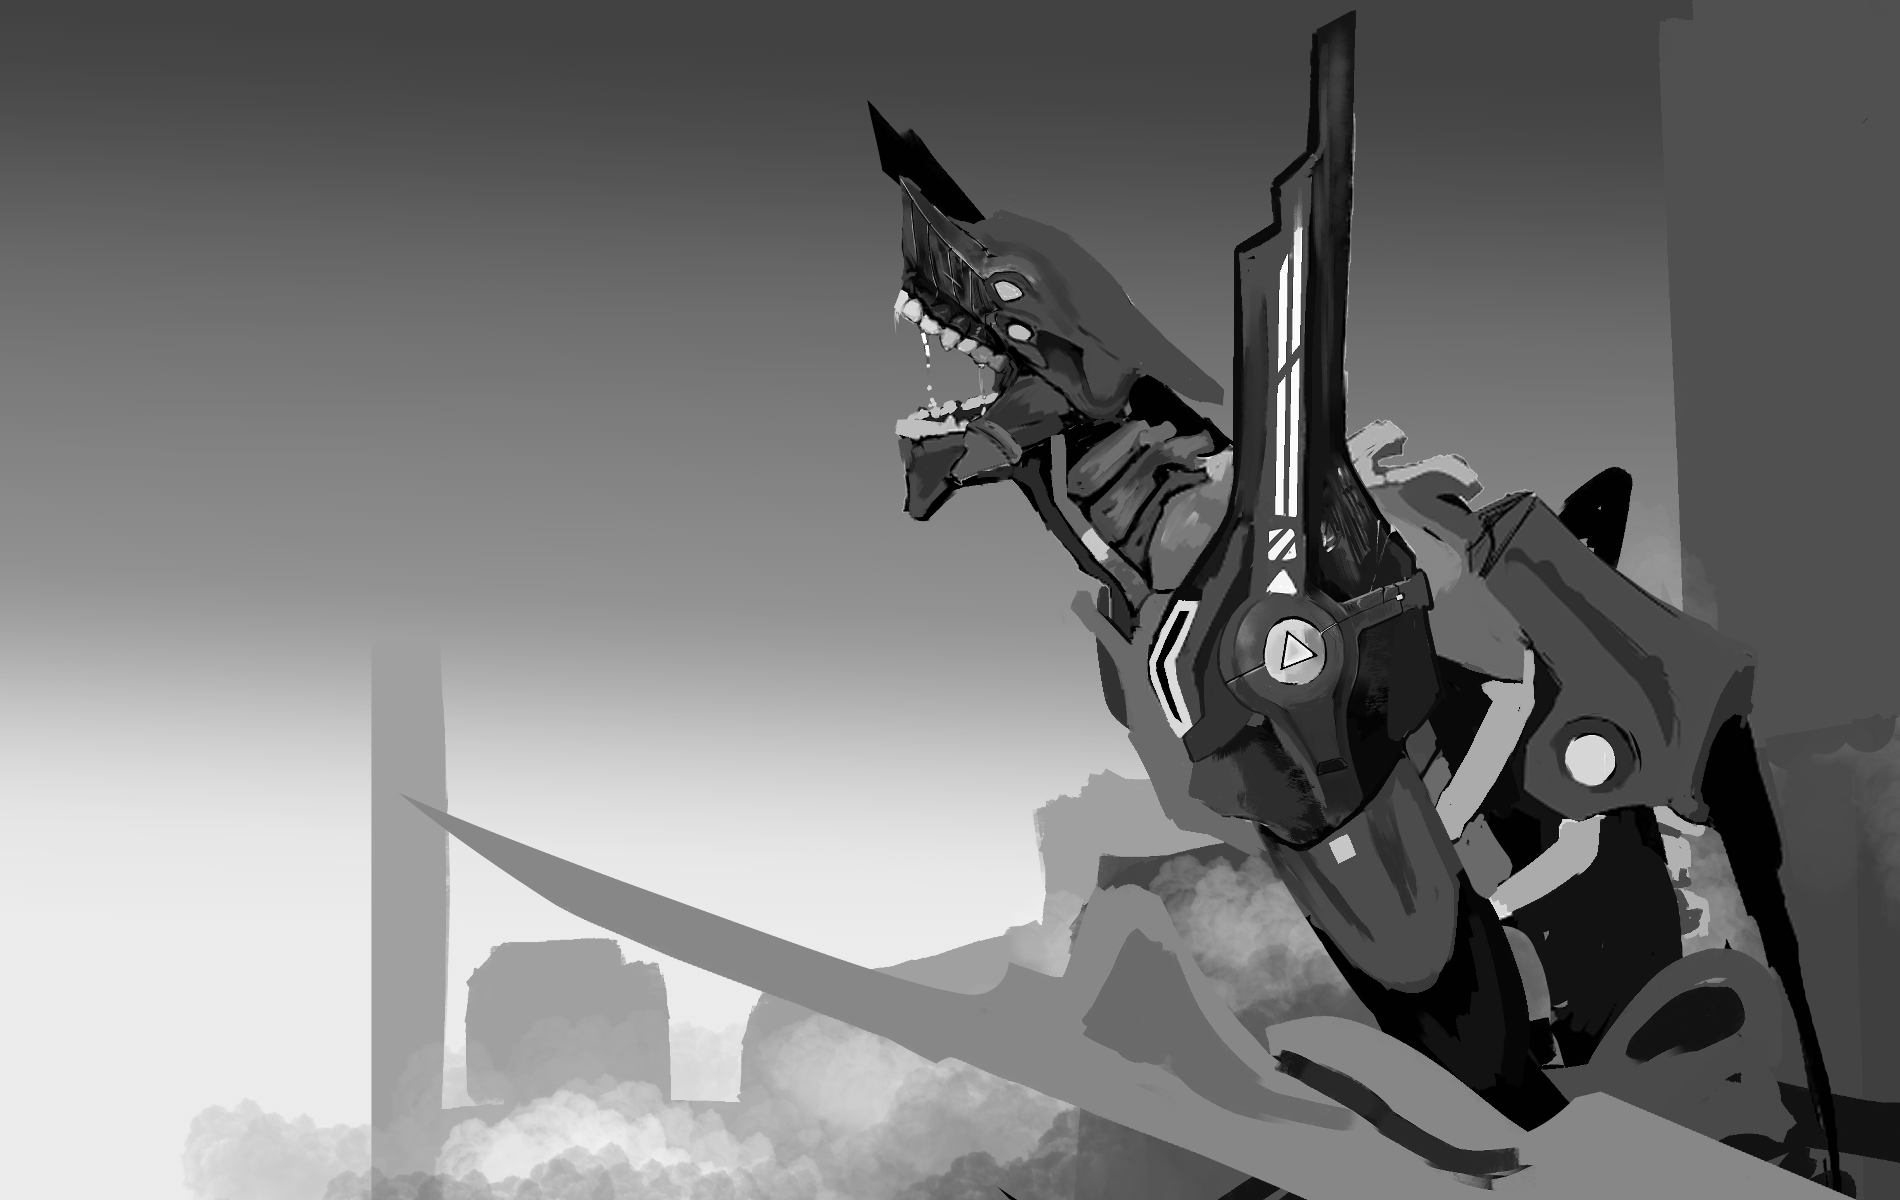
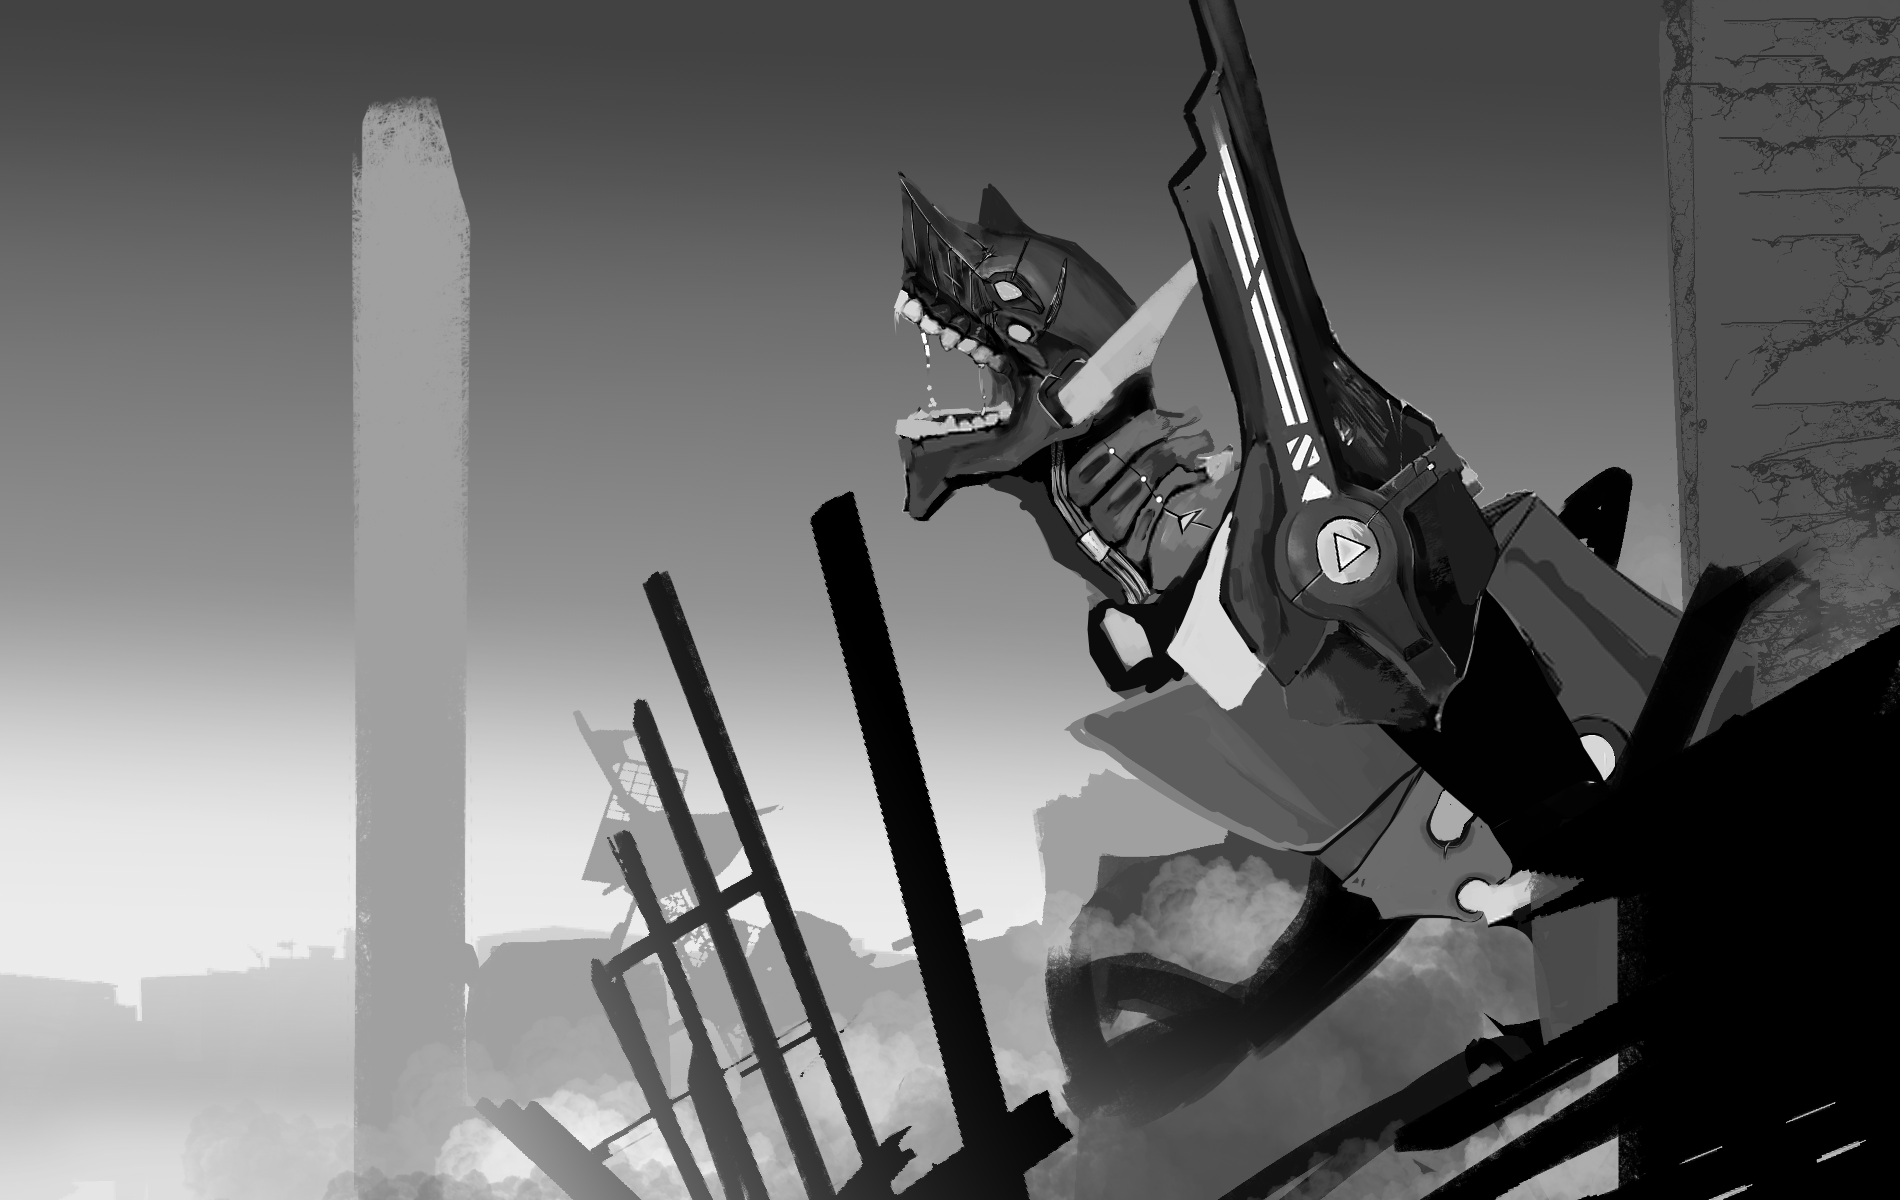
update

diff --git a/artist_statement.html b/artist_statement.html
@@ -41,38 +41,15 @@
     </nav>
 <!-------------------------------Home Navigation-------------------------------> 
       
-          <div id="about">
-            <div class="containter">
-              <div class="row">
-              <div class="about-col-1">
-                  <image src = "images/profile.png" class="profile">
-              </div>
-              <div class="about-col-2">
-                <br>
-                <br>
-                <br>
-                <h1 class="subtext">Alicia Chi</h1>
-                <h3>Digital Media Artist</h2>
-                <br>
-                    I’ve primarily worked with drawing and illustrations with a different approach to the creation of art. More specifically, illustration for the means of storytelling, however within these works art work should be viewed with a different perspective and definition. The essence of being an artist is expressing your view for others to see. Being an artist means creating pieces of art that inspire others to take action, discuss, and deliberate with one another. That is what I feel separates an artist from an illustrator. A primary motive behind my artwork is to tell a story and connect with my audience through my pieces of artwork. Outside of creation for aesthetics, I hope to spark people’s imagination and alter their perspective of the world through the lens of my art pieces.
-                        <br>
-                        <br>
-                    My body of work focuses on form, content, and technique. In my opinion, art is often mistaken as something an individual looks at, however, the contents of the work vary due to the audiences’ different perspectives and reactions to a piece. Some will look at a piece for its narrative content while others will view it through a more critical lens. Artwork is a framework that allows individuals to creatively express a theme or purpose to a more vast audience. I enjoy creating works of art that are self-interpretable for the audience. By doing so, I’m able to engage in my audiences’ interpretations not by simply stating what is occurring, but rather by undermining narratives and hiding material for them to be found by those viewing and pieced together.
-                        <br>
-                    I’m currently exploring different mediums for the best way to articulate my ideas. My projects do not focus on one medium as mixed media allows me to express different ideas more effectively. Within my work I utilized different mediums such as data bending (glitch art), 3D modeling, coded art, and website construction, however, I’ve utilized different programs ranging from the Adobe Suite to illustration programs such as Clip Studio Paint to create an array of experiences. Creating work through video, coding, illustration, and 3D allowed me to express my thoughts and ideas in sophisticated ways. 
-                        <br>
-                        <br>
-                    I was able to produce a distinctive visual representation of my ideas and imagination through these creations. Each work of art is unique, just like every viewer's reaction to it. My intention is to produce a work of art that will pique someone's interest and capture it until they can come up with their own interpretation and thoughtful reaction. If I am able to get a single viewer to stop, think, and reflect on the artwork I’ve created, then the objective of my work will be fulfilled.
-                        <br>
-                        <br>
-                <p class="bout_me">
-                  
-                </p>
-              </div>
-              </div>
-          </div>
-    
-        </div>
-      </div>
+<div class="wrapper">
+  <div class="statement-text">
+    <h2>Digital Illustration</h2>
+    <br>
+    <p>This project is a series of glitched images utilizing TextEdit, Audacity Software and Photoshop.</p>
+    <br>
+  </div>
+ 
+
+  </div>
   </body>
 </html>

diff --git a/illustration.html b/illustration.html
@@ -72,7 +72,7 @@
           </div>
         
       <br>
-      <img class="myImages" id="myImg" src="images/illustration.png" alt="Illustration 3" style="width:50%">
+      <img class="myImages" id="myImg" src="images/image1.png" alt="Illustration 3" style="width:50%">
         <!-- Modal Images -->    
         <div id="myModal" class="modal">
             <span class="close">&times;</span>
